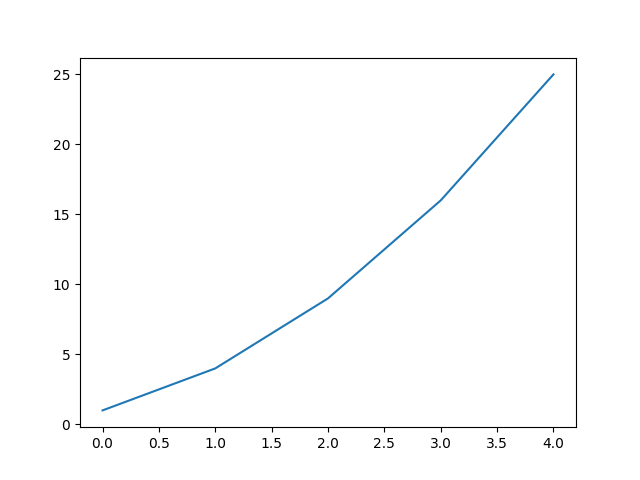
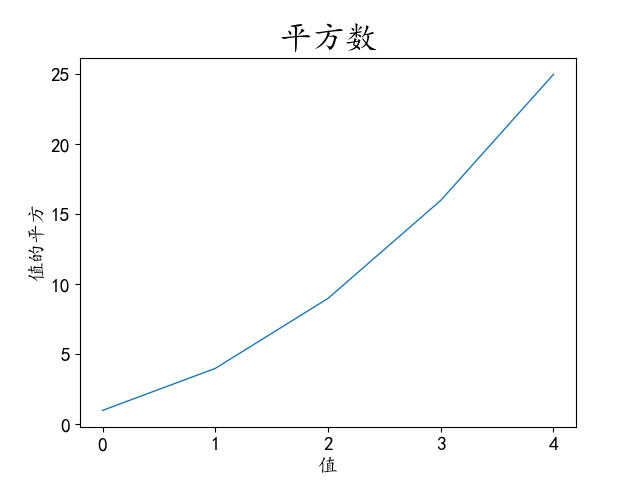
Add files via upload

diff --git a/15.2/mpl_squares.py b/15.2/mpl_squares.py
@@ -1,7 +1,17 @@
 import matplotlib.pyplot as plt
 
-squares=[1,4,9,16,25]
-fig,ax=plt.subplots()
-ax.plot(squares)
+plt.rcParams['font.sans-serif'] = ['KaiTi']#显示中文标签
 
-plt.show()
+squares=[1,4,9,16,25]
+fig,ax=plt.subplots()#变量fig表示整张图片，变量ax表示图片中的各个图表
+ax.plot(squares,linewidth=1)#方法plot根据给定数据以有意义的方式绘制图表
+
+#设置图表标题并给坐标轴加上标签
+ax.set_title("平方数",fontsize=24)
+ax.set_xlabel("值",fontsize=14)
+ax.set_ylabel("值的平方",fontsize=14)
+
+#标记刻度标记的大小
+ax.tick_params(axis='both',labelsize=14)
+
+plt.show()#打开Matplotlib查看器并显示绘制的图表
